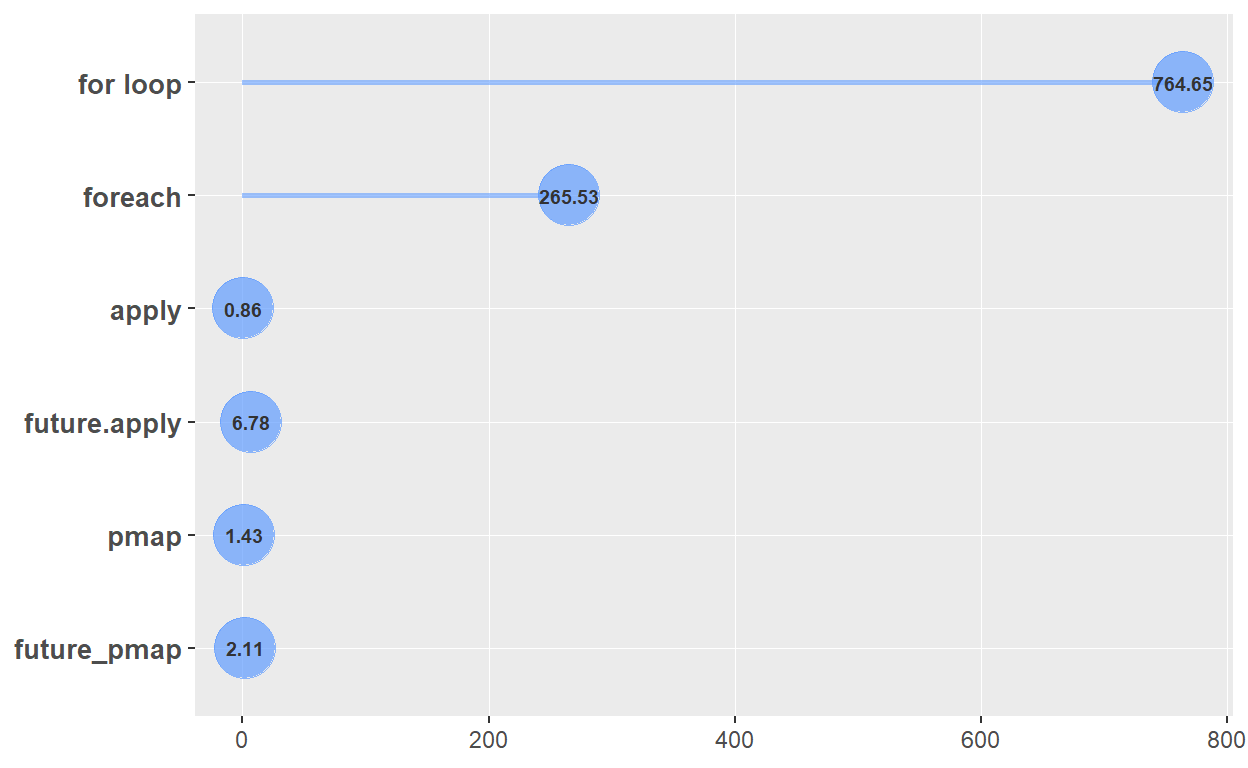
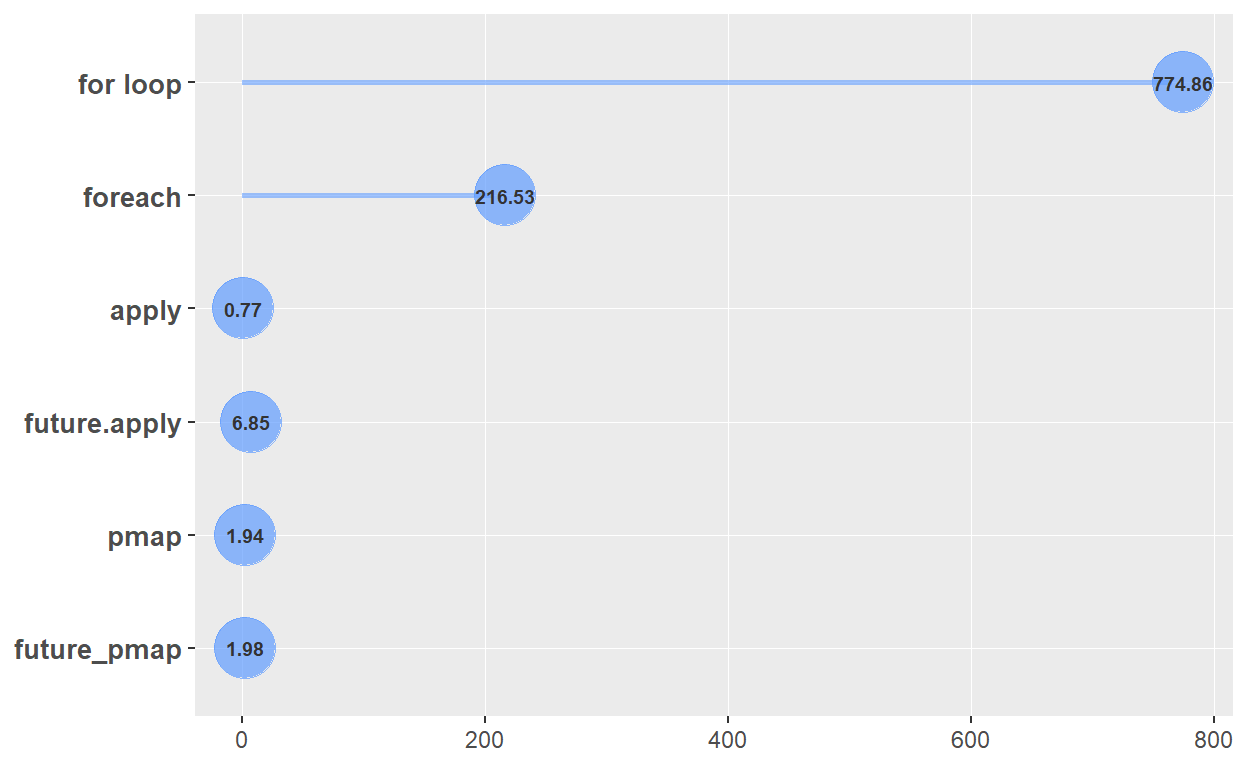
inclui autor no post

diff --git a/docs/posts/2019-09-19-loop-vs-alternativas/index.html b/docs/posts/2019-09-19-loop-vs-alternativas/index.html
@@ -28,6 +28,7 @@
 <!--  https://schema.org/Article -->
 <meta property="article:published" itemprop="datePublished" content="2019-09-21"/>
 <meta property="article:created" itemprop="dateCreated" content="2019-09-21"/>
+<meta name="article:author" content="Diego Afonso de Castro"/>
 
 <!--  https://developers.facebook.com/docs/sharing/webmasters#markup -->
 <meta property="og:title" content="Fulljoin: Por que evitar for loops em R?"/>
@@ -49,11 +50,17 @@
 <meta property="twitter:image:width" content="875"/>
 <meta property="twitter:image:height" content="420"/>
 
+<!--  https://scholar.google.com/intl/en/scholar/inclusion.html#indexing -->
+<meta name="citation_title" content="Fulljoin: Por que evitar for loops em R?"/>
+<meta name="citation_fulltext_html_url" content="https://www.fulljoin.com.br/posts/2019-09-19-loop-vs-alternativas/"/>
+<meta name="citation_online_date" content="2019/09/21"/>
+<meta name="citation_publication_date" content="2019/09/21"/>
+<meta name="citation_author" content="Diego Afonso de Castro"/>
 <!--/radix_placeholder_meta_tags-->
   <!--radix_placeholder_rmarkdown_metadata-->
 
 <script type="text/json" id="radix-rmarkdown-metadata">
-{"type":"list","attributes":{"names":{"type":"character","attributes":{},"value":["title","description","Author","date","output","draft","preview","citation_url","canonical_url"]}},"value":[{"type":"character","attributes":{},"value":["Por que evitar for loops em R?"]},{"type":"character","attributes":{},"value":["A partir de um simples exemplo, vamos testar o desempenho de for loops comparando-o com a performance de outras alternativas como apply, funções do purrr e estratégias paralelizadas."]},{"type":"character","attributes":{},"value":["Diego Afonso de Castro"]},{"type":"character","attributes":{},"value":["2019-09-21"]},{"type":"list","attributes":{"names":{"type":"character","attributes":{},"value":["distill::distill_article","categories"]}},"value":[{"type":"list","attributes":{"names":{"type":"character","attributes":{},"value":["self_contained"]}},"value":[{"type":"logical","attributes":{},"value":[false]}]},{"type":"character","attributes":{},"value":["for loop","apply","purrr","furrr","foreach","future.apply"]}]},{"type":"logical","attributes":{},"value":[false]},{"type":"character","attributes":{},"value":["../../images/capa_loop.png"]},{"type":"character","attributes":{},"value":["https://www.fulljoin.com.br/posts/2019-09-19-loop-vs-alternativas/"]},{"type":"character","attributes":{},"value":["https://www.fulljoin.com.br/posts/2019-09-19-loop-vs-alternativas/"]}]}
+{"type":"list","attributes":{"names":{"type":"character","attributes":{},"value":["title","description","author","date","output","draft","preview","citation_url","canonical_url"]}},"value":[{"type":"character","attributes":{},"value":["Por que evitar for loops em R?"]},{"type":"character","attributes":{},"value":["A partir de um simples exemplo, vamos testar o desempenho de for loops comparando-o com a performance de outras alternativas como apply, funções do purrr e estratégias paralelizadas."]},{"type":"list","attributes":{},"value":[{"type":"list","attributes":{"names":{"type":"character","attributes":{},"value":["name"]}},"value":[{"type":"character","attributes":{},"value":["Diego Afonso de Castro"]}]}]},{"type":"character","attributes":{},"value":["2019-09-21"]},{"type":"list","attributes":{"names":{"type":"character","attributes":{},"value":["distill::distill_article","categories"]}},"value":[{"type":"list","attributes":{"names":{"type":"character","attributes":{},"value":["self_contained"]}},"value":[{"type":"logical","attributes":{},"value":[false]}]},{"type":"character","attributes":{},"value":["for loop","apply","purrr","furrr","foreach","future.apply"]}]},{"type":"logical","attributes":{},"value":[false]},{"type":"character","attributes":{},"value":["../../images/capa_loop.png"]},{"type":"character","attributes":{},"value":["https://www.fulljoin.com.br/posts/2019-09-19-loop-vs-alternativas/"]},{"type":"character","attributes":{},"value":["https://www.fulljoin.com.br/posts/2019-09-19-loop-vs-alternativas/"]}]}
 </script>
 <!--/radix_placeholder_rmarkdown_metadata-->
   
@@ -1323,7 +1330,7 @@ d-appendix {
 <!--radix_placeholder_front_matter-->
 
 <script id="distill-front-matter" type="text/json">
-{"title":"Por que evitar for loops em R?","description":"A partir de um simples exemplo, vamos testar o desempenho de for loops comparando-o com a performance de outras alternativas como apply, funções do purrr e estratégias paralelizadas.","authors":[],"publishedDate":"2019-09-21T00:00:00.000-03:00"}
+{"title":"Por que evitar for loops em R?","description":"A partir de um simples exemplo, vamos testar o desempenho de for loops comparando-o com a performance de outras alternativas como apply, funções do purrr e estratégias paralelizadas.","authors":[{"author":"Diego Afonso de Castro","authorURL":"#","affiliation":"&nbsp;","affiliationURL":"#"}],"publishedDate":"2019-09-21T00:00:00.000-03:00","citationText":"Castro, 2019"}
 </script>
 
 <!--/radix_placeholder_front_matter-->
@@ -1349,6 +1356,12 @@ d-appendix {
 <p>A partir de um simples exemplo, vamos testar o desempenho de for loops comparando-o com a performance de outras alternativas como apply, funções do purrr e estratégias paralelizadas.</p>
 </div>
 
+<div class="d-byline">
+  
+  Diego Afonso de Castro
+  
+<br/>2019-09-21
+</div>
 
 <div class="d-article">
 <h2 id="introducao">Introdução</h2>
@@ -1443,9 +1456,9 @@ head(dados_base_loop)</code></pre>
 loop_time</code></pre>
 <pre><code>
    user  system elapsed 
- 487.92  274.69  764.65 </code></pre>
+ 492.14  279.67  774.86 </code></pre>
 </div>
-<p>Podemos ver que o data frame criado é o que realmente queríamos gerar (basta comparar a coluna D deste data frame e do data frame da seção anterior) e que o tempo necessário para a realização dessa tarefa foi 764.65 segundos.</p>
+<p>Podemos ver que o data frame criado é o que realmente queríamos gerar (basta comparar a coluna D deste data frame e do data frame da seção anterior) e que o tempo necessário para a realização dessa tarefa foi 774.86 segundos.</p>
 <h2 id="solucao-2-foreach">Solução 2: foreach</h2>
 <p>Basicamente, esta abordagem é a mesma da anterior, mas neste caso paralelizando o processo. Isto quer dizer que mais de um núcleo do computador realiza a mesma tarefa. Entretanto, cada um dos núcleos atua em partes diferentes do data frame.</p>
 <div class="layout-chunk" data-layout="l-body">
@@ -1490,9 +1503,9 @@ head(dados_base_foreach)</code></pre>
 foreach_time</code></pre>
 <pre><code>
    user  system elapsed 
- 215.31   17.80  265.53 </code></pre>
+ 192.28   16.84  216.53 </code></pre>
 </div>
-<p>A coluna <strong>D</strong> gerada é como esperávamos. Além disso, o tempo total para realização da tarefa reduz consideravelmente para 265.53 segundos.</p>
+<p>A coluna <strong>D</strong> gerada é como esperávamos. Além disso, o tempo total para realização da tarefa reduz consideravelmente para 216.53 segundos.</p>
 <h2 id="solucao-3-familia-apply">Solução 3: família apply</h2>
 <p>Primeiramente, vale uma breve explicação do que é a família <em>apply</em>. A família <em>apply</em> é composta de funções que pertence ao R base as quais aplicam outras funções a determinadas estrutura. Claro? Provavelmente não. Vamos resumir algumas dessas funções para ficar mais fácil de entender:</p>
 <ul>
@@ -1527,10 +1540,10 @@ head(dados_base_apply)</code></pre>
 apply_time</code></pre>
 <pre><code>
    user  system elapsed 
-   0.80    0.03    0.86 </code></pre>
+   0.76    0.00    0.77 </code></pre>
 </div>
 <p>O argumento <em>X</em> é a matriz na qual aplicamos a função <em>FUN</em>, no caso <em>sum</em>. O argumento <em>MARGIN</em> diz em qual direção queremos aplicar a nossa função. 1 quer dizer que será aplicado a função <em>sum</em> em cada <strong>linha</strong> da matrix <em>X</em> e 2 em cada coluna da mesma matriz.</p>
-<p>Usando a função <code>apply()</code>, o novo tempo para realizar a tarefa é de 0.86 segundos. Ótimo aumento de desempenho, não é mesmo?</p>
+<p>Usando a função <code>apply()</code>, o novo tempo para realizar a tarefa é de 0.77 segundos. Ótimo aumento de desempenho, não é mesmo?</p>
 <h2 id="solucao-4-future-apply">Solução 4: future apply</h2>
 <p>Usando o pacote <code>future.apply</code> é possível paralelizar o processo anterior que usou apply.</p>
 <div class="layout-chunk" data-layout="l-body">
@@ -1562,7 +1575,7 @@ head(dados_base_futureapply)</code></pre>
 futureapply_time</code></pre>
 <pre><code>
    user  system elapsed 
-   5.67    0.13    6.78 </code></pre>
+   5.53    0.08    6.85 </code></pre>
 </div>
 <p>Notamos que neste caso não houve melhoria de desempenho. Nem sempre a paralelização melhora a performance. Isso ocorre porque ao paralelizar a tarefa, é necessário que haja sincronização dos <em>cores</em> em alguns momentos para inserir os resultados na posição correta e isso pode gerar um aumento no tempo gasto.</p>
 <h2 id="solucao-5-purrr">Solução 5: purrr</h2>
@@ -1596,9 +1609,9 @@ head(dados_base_map)</code></pre>
 purrr_time</code></pre>
 <pre><code>
    user  system elapsed 
-   1.43    0.01    1.43 </code></pre>
+   1.94    0.00    1.94 </code></pre>
 </div>
-<p>usando o <em>purrr</em>, obtivemos um resultado levemente pior (1.43 segundos) do que no caso do <em>apply</em>. Porém, quando comparado com for loop, <em>foreach</em> e <em>future.apply</em>, o <em>purrr</em> realizou a tarefa mais rapidamente.</p>
+<p>usando o <em>purrr</em>, obtivemos um resultado levemente pior (1.94 segundos) do que no caso do <em>apply</em>. Porém, quando comparado com for loop, <em>foreach</em> e <em>future.apply</em>, o <em>purrr</em> realizou a tarefa mais rapidamente.</p>
 <h2 id="solucao-6-furrr">Solução 6: furrr</h2>
 <p>Finalmente, vamos paralelizar a solução anterior usando o pacote <em>furrr</em>. Ele funciona de forma muito similar ao <em>purrr</em>, apenas trocando a função <code>pmap()</code> por <code>future_pmap()</code>, como pode ser visto abaixo.</p>
 <div class="layout-chunk" data-layout="l-body">
@@ -1631,7 +1644,7 @@ head(dados_base_furr)</code></pre>
 furrr_time</code></pre>
 <pre><code>
    user  system elapsed 
-   0.18    0.00    2.11 </code></pre>
+   0.20    0.00    1.98 </code></pre>
 </div>
 <p>Houve uma leve perda de desempenho em relação ao <em>purrr</em> and <em>apply</em>, mas o resultado foi melhor do que a demais soluções.</p>
 <h2 id="conclusao">Conclusão</h2>
@@ -1686,7 +1699,18 @@ var disqus_config = function () {
 <!--radix_placeholder_site_after_body-->
 <!--/radix_placeholder_site_after_body-->
 <!--radix_placeholder_appendices-->
-<div class="appendix-bottom"></div>
+<div class="appendix-bottom">
+  <h3 id="citation">Citation</h3>
+  <p>For attribution, please cite this work as</p>
+  <pre class="citation-appendix short">Castro (2019, Sept. 21). Fulljoin: Por que evitar for loops em R?. Retrieved from https://www.fulljoin.com.br/posts/2019-09-19-loop-vs-alternativas/</pre>
+  <p>BibTeX citation</p>
+  <pre class="citation-appendix long">@misc{castro2019por,
+  author = {Castro, Diego Afonso de},
+  title = {Fulljoin: Por que evitar for loops em R?},
+  url = {https://www.fulljoin.com.br/posts/2019-09-19-loop-vs-alternativas/},
+  year = {2019}
+}</pre>
+</div>
 <!--/radix_placeholder_appendices-->
 <!--radix_placeholder_navigation_after_body-->
 <div class="distill-site-nav distill-site-footer">

diff --git a/_posts/2019-09-19-loop-vs-alternativas/loops_distill.html b/_posts/2019-09-19-loop-vs-alternativas/loops_distill.html
@@ -27,6 +27,7 @@
   <!--  https://schema.org/Article -->
   <meta property="article:published" itemprop="datePublished" content="2019-09-21"/>
   <meta property="article:created" itemprop="dateCreated" content="2019-09-21"/>
+  <meta name="article:author" content="Diego Afonso de Castro"/>
   
   <!--  https://developers.facebook.com/docs/sharing/webmasters#markup -->
   <meta property="og:title" content="Por que evitar for loops em R?"/>
@@ -43,7 +44,7 @@
   <!--radix_placeholder_rmarkdown_metadata-->
   
   <script type="text/json" id="radix-rmarkdown-metadata">
-  {"type":"list","attributes":{"names":{"type":"character","attributes":{},"value":["title","description","Author","date","output","draft","preview"]}},"value":[{"type":"character","attributes":{},"value":["Por que evitar for loops em R?"]},{"type":"character","attributes":{},"value":["A partir de um simples exemplo, vamos testar o desempenho de for loops comparando-o com a performance de outras alternativas como apply, funções do purrr e estratégias paralelizadas.\n"]},{"type":"character","attributes":{},"value":["Diego Afonso de Castro"]},{"type":"character","attributes":{},"value":["2019-09-21"]},{"type":"list","attributes":{"names":{"type":"character","attributes":{},"value":["distill::distill_article","categories"]}},"value":[{"type":"list","attributes":{"names":{"type":"character","attributes":{},"value":["self_contained"]}},"value":[{"type":"logical","attributes":{},"value":[false]}]},{"type":"character","attributes":{},"value":["for loop","apply","purrr","furrr","foreach","future.apply"]}]},{"type":"logical","attributes":{},"value":[false]},{"type":"character","attributes":{},"value":["../../images/capa_loop.png"]}]}
+  {"type":"list","attributes":{"names":{"type":"character","attributes":{},"value":["title","description","author","date","output","draft","preview"]}},"value":[{"type":"character","attributes":{},"value":["Por que evitar for loops em R?"]},{"type":"character","attributes":{},"value":["A partir de um simples exemplo, vamos testar o desempenho de for loops comparando-o com a performance de outras alternativas como apply, funções do purrr e estratégias paralelizadas.\n"]},{"type":"list","attributes":{},"value":[{"type":"list","attributes":{"names":{"type":"character","attributes":{},"value":["name"]}},"value":[{"type":"character","attributes":{},"value":["Diego Afonso de Castro"]}]}]},{"type":"character","attributes":{},"value":["2019-09-21"]},{"type":"list","attributes":{"names":{"type":"character","attributes":{},"value":["distill::distill_article","categories"]}},"value":[{"type":"list","attributes":{"names":{"type":"character","attributes":{},"value":["self_contained"]}},"value":[{"type":"logical","attributes":{},"value":[false]}]},{"type":"character","attributes":{},"value":["for loop","apply","purrr","furrr","foreach","future.apply"]}]},{"type":"logical","attributes":{},"value":[false]},{"type":"character","attributes":{},"value":["../../images/capa_loop.png"]}]}
   </script>
   <!--/radix_placeholder_rmarkdown_metadata-->
   
@@ -941,7 +942,7 @@
 <!--radix_placeholder_front_matter-->
 
 <script id="distill-front-matter" type="text/json">
-{"title":"Por que evitar for loops em R?","description":"A partir de um simples exemplo, vamos testar o desempenho de for loops comparando-o com a performance de outras alternativas como apply, funções do purrr e estratégias paralelizadas.","authors":[],"publishedDate":"2019-09-21T00:00:00.000-03:00"}
+{"title":"Por que evitar for loops em R?","description":"A partir de um simples exemplo, vamos testar o desempenho de for loops comparando-o com a performance de outras alternativas como apply, funções do purrr e estratégias paralelizadas.","authors":[{"author":"Diego Afonso de Castro","authorURL":"#","affiliation":"&nbsp;","affiliationURL":"#"}],"publishedDate":"2019-09-21T00:00:00.000-03:00","citationText":"Castro, 2019"}
 </script>
 
 <!--/radix_placeholder_front_matter-->
@@ -955,6 +956,12 @@
 <p>A partir de um simples exemplo, vamos testar o desempenho de for loops comparando-o com a performance de outras alternativas como apply, funções do purrr e estratégias paralelizadas.</p>
 </div>
 
+<div class="d-byline">
+  
+  Diego Afonso de Castro
+  
+<br/>2019-09-21
+</div>
 
 <div class="d-article">
 <h2 id="introducao">Introdução</h2>
@@ -1049,9 +1056,9 @@ head(dados_base_loop)</code></pre>
 loop_time</code></pre>
 <pre><code>
    user  system elapsed 
- 487.92  274.69  764.65 </code></pre>
+ 492.14  279.67  774.86 </code></pre>
 </div>
-<p>Podemos ver que o data frame criado é o que realmente queríamos gerar (basta comparar a coluna D deste data frame e do data frame da seção anterior) e que o tempo necessário para a realização dessa tarefa foi 764.65 segundos.</p>
+<p>Podemos ver que o data frame criado é o que realmente queríamos gerar (basta comparar a coluna D deste data frame e do data frame da seção anterior) e que o tempo necessário para a realização dessa tarefa foi 774.86 segundos.</p>
 <h2 id="solucao-2-foreach">Solução 2: foreach</h2>
 <p>Basicamente, esta abordagem é a mesma da anterior, mas neste caso paralelizando o processo. Isto quer dizer que mais de um núcleo do computador realiza a mesma tarefa. Entretanto, cada um dos núcleos atua em partes diferentes do data frame.</p>
 <div class="layout-chunk" data-layout="l-body">
@@ -1096,9 +1103,9 @@ head(dados_base_foreach)</code></pre>
 foreach_time</code></pre>
 <pre><code>
    user  system elapsed 
- 215.31   17.80  265.53 </code></pre>
+ 192.28   16.84  216.53 </code></pre>
 </div>
-<p>A coluna <strong>D</strong> gerada é como esperávamos. Além disso, o tempo total para realização da tarefa reduz consideravelmente para 265.53 segundos.</p>
+<p>A coluna <strong>D</strong> gerada é como esperávamos. Além disso, o tempo total para realização da tarefa reduz consideravelmente para 216.53 segundos.</p>
 <h2 id="solucao-3-familia-apply">Solução 3: família apply</h2>
 <p>Primeiramente, vale uma breve explicação do que é a família <em>apply</em>. A família <em>apply</em> é composta de funções que pertence ao R base as quais aplicam outras funções a determinadas estrutura. Claro? Provavelmente não. Vamos resumir algumas dessas funções para ficar mais fácil de entender:</p>
 <ul>
@@ -1133,10 +1140,10 @@ head(dados_base_apply)</code></pre>
 apply_time</code></pre>
 <pre><code>
    user  system elapsed 
-   0.80    0.03    0.86 </code></pre>
+   0.76    0.00    0.77 </code></pre>
 </div>
 <p>O argumento <em>X</em> é a matriz na qual aplicamos a função <em>FUN</em>, no caso <em>sum</em>. O argumento <em>MARGIN</em> diz em qual direção queremos aplicar a nossa função. 1 quer dizer que será aplicado a função <em>sum</em> em cada <strong>linha</strong> da matrix <em>X</em> e 2 em cada coluna da mesma matriz.</p>
-<p>Usando a função <code>apply()</code>, o novo tempo para realizar a tarefa é de 0.86 segundos. Ótimo aumento de desempenho, não é mesmo?</p>
+<p>Usando a função <code>apply()</code>, o novo tempo para realizar a tarefa é de 0.77 segundos. Ótimo aumento de desempenho, não é mesmo?</p>
 <h2 id="solucao-4-future-apply">Solução 4: future apply</h2>
 <p>Usando o pacote <code>future.apply</code> é possível paralelizar o processo anterior que usou apply.</p>
 <div class="layout-chunk" data-layout="l-body">
@@ -1168,7 +1175,7 @@ head(dados_base_futureapply)</code></pre>
 futureapply_time</code></pre>
 <pre><code>
    user  system elapsed 
-   5.67    0.13    6.78 </code></pre>
+   5.53    0.08    6.85 </code></pre>
 </div>
 <p>Notamos que neste caso não houve melhoria de desempenho. Nem sempre a paralelização melhora a performance. Isso ocorre porque ao paralelizar a tarefa, é necessário que haja sincronização dos <em>cores</em> em alguns momentos para inserir os resultados na posição correta e isso pode gerar um aumento no tempo gasto.</p>
 <h2 id="solucao-5-purrr">Solução 5: purrr</h2>
@@ -1202,9 +1209,9 @@ head(dados_base_map)</code></pre>
 purrr_time</code></pre>
 <pre><code>
    user  system elapsed 
-   1.43    0.01    1.43 </code></pre>
+   1.94    0.00    1.94 </code></pre>
 </div>
-<p>usando o <em>purrr</em>, obtivemos um resultado levemente pior (1.43 segundos) do que no caso do <em>apply</em>. Porém, quando comparado com for loop, <em>foreach</em> e <em>future.apply</em>, o <em>purrr</em> realizou a tarefa mais rapidamente.</p>
+<p>usando o <em>purrr</em>, obtivemos um resultado levemente pior (1.94 segundos) do que no caso do <em>apply</em>. Porém, quando comparado com for loop, <em>foreach</em> e <em>future.apply</em>, o <em>purrr</em> realizou a tarefa mais rapidamente.</p>
 <h2 id="solucao-6-furrr">Solução 6: furrr</h2>
 <p>Finalmente, vamos paralelizar a solução anterior usando o pacote <em>furrr</em>. Ele funciona de forma muito similar ao <em>purrr</em>, apenas trocando a função <code>pmap()</code> por <code>future_pmap()</code>, como pode ser visto abaixo.</p>
 <div class="layout-chunk" data-layout="l-body">
@@ -1237,7 +1244,7 @@ head(dados_base_furr)</code></pre>
 furrr_time</code></pre>
 <pre><code>
    user  system elapsed 
-   0.18    0.00    2.11 </code></pre>
+   0.20    0.00    1.98 </code></pre>
 </div>
 <p>Houve uma leve perda de desempenho em relação ao <em>purrr</em> and <em>apply</em>, mas o resultado foi melhor do que a demais soluções.</p>
 <h2 id="conclusao">Conclusão</h2>

diff --git a/docs/index.html b/docs/index.html
@@ -2108,7 +2108,7 @@ A ideia é postar sobre programação, estatística, machine learning e análise
 <a href="#">More articles &raquo;</a>
 </div>
 </div>
-<!--/radix_placeholder_article_listing-->
+<!--/radix_placeholder_article_listing-->
 
 <div class="d-title">
 <h1>Fulljoin</h1>
